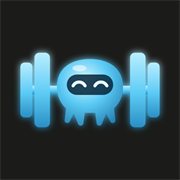
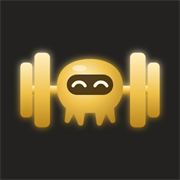
Icono amarillo a juego con la app

Changed region(s): [[0.0833, 0.2778, 0.9167, 0.75]]

diff --git a/sw.js b/sw.js
@@ -1,4 +1,4 @@
-const VERSION = 'serie-v24';
+const VERSION = 'serie-v25';
 const ARCHIVOS = ['./', './index.html', './manifest.webmanifest', './icono.svg', './icono-192.png', './icono-512.png', './icono-180.png', './bicho.js'];
 self.addEventListener('install', (e) => { e.waitUntil(caches.open(VERSION).then((c) => c.addAll(ARCHIVOS.map((u) => new Request(u, { cache: 'reload' })))).then(() => self.skipWaiting())); });
 self.addEventListener('activate', (e) => { e.waitUntil(caches.keys().then((ks) => Promise.all(ks.filter((k) => k !== VERSION).map((k) => caches.delete(k)))).then(() => self.clients.claim())); });

diff --git a/index.html b/index.html
@@ -11,7 +11,7 @@
 <title>Gym</title>
 <link rel="manifest" href="manifest.webmanifest">
 <link rel="icon" href="icono.svg" type="image/svg+xml">
-<link rel="apple-touch-icon" sizes="180x180" href="icono-180.png?v=2">
+<link rel="apple-touch-icon" sizes="180x180" href="icono-180.png?v=3">
 <link rel="preconnect" href="https://fonts.googleapis.com">
 <link rel="preconnect" href="https://fonts.gstatic.com" crossorigin>
 <link href="https://fonts.googleapis.com/css2?family=Barlow+Condensed:wght@500;600;700&family=Barlow:wght@400;500;600&family=IBM+Plex+Mono:wght@400;500;600&display=swap" rel="stylesheet">
